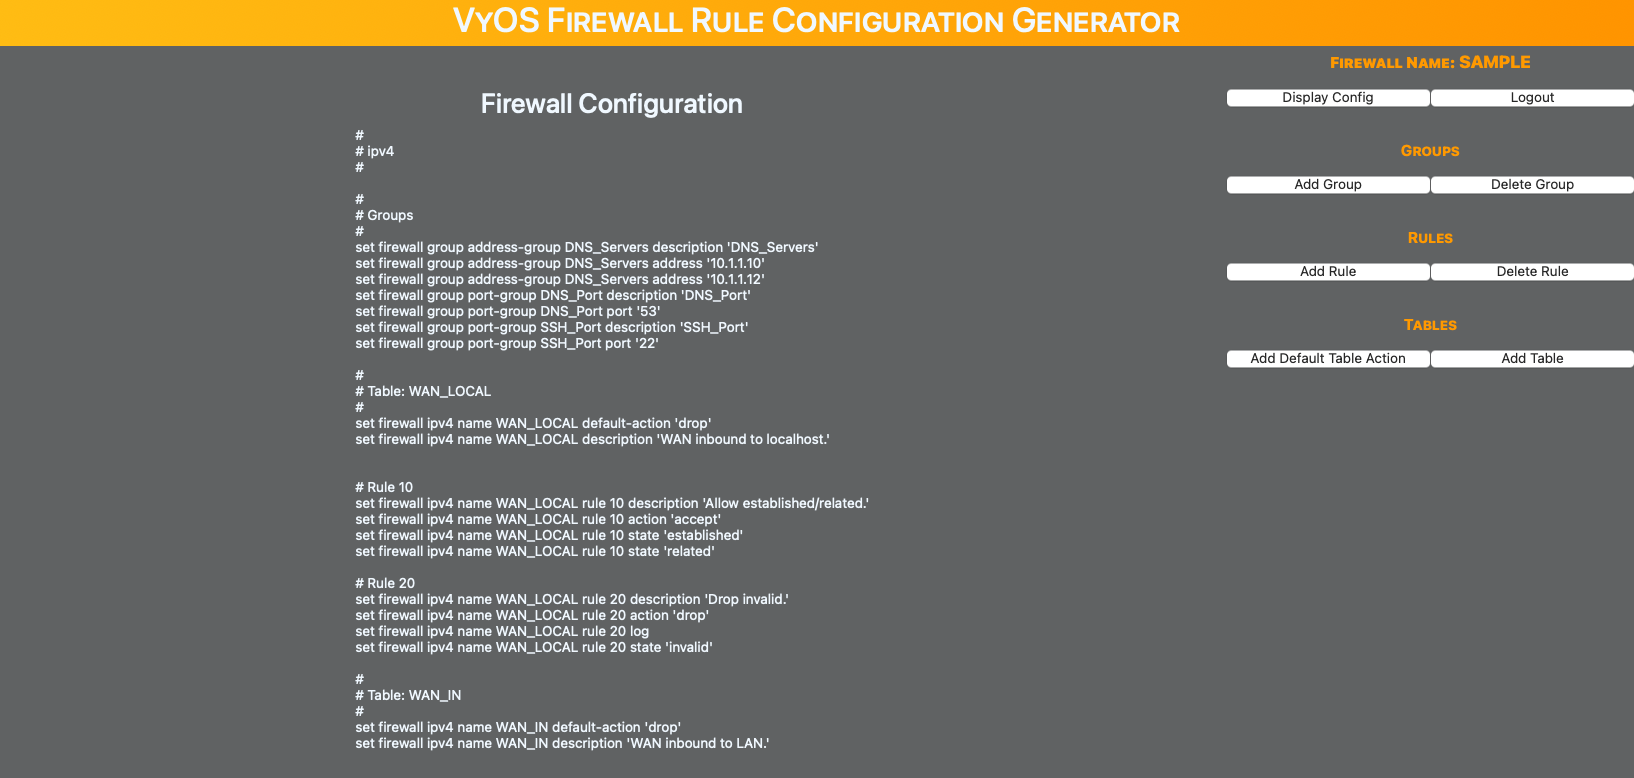
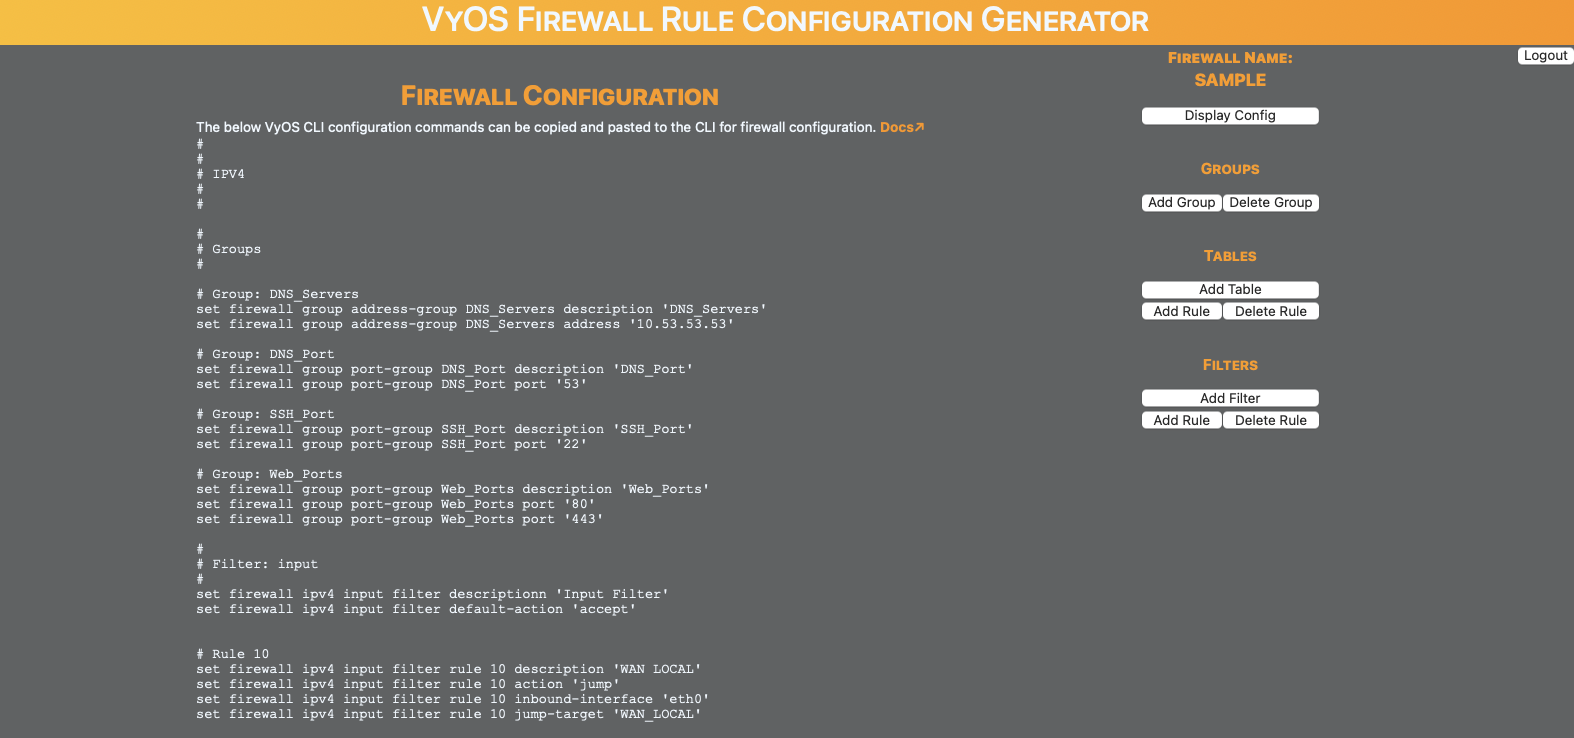
Update README.md and images.

diff --git a/README.md b/README.md
@@ -17,19 +17,59 @@ Working demo:  [https://vyos-fw-gui.com](https://vyos-fw-gui.com)
 
 ```text
 #
-# ipv4
+#
+# IPV4
+#
 #
 
 #
 # Groups
 #
+
+# Group: DNS_Servers
 set firewall group address-group DNS_Servers description 'DNS_Servers'
-set firewall group address-group DNS_Servers address '10.1.1.10'
-set firewall group address-group DNS_Servers address '10.1.1.12'
+set firewall group address-group DNS_Servers address '10.53.53.53'
+
+# Group: DNS_Port
 set firewall group port-group DNS_Port description 'DNS_Port'
 set firewall group port-group DNS_Port port '53'
+
+# Group: SSH_Port
 set firewall group port-group SSH_Port description 'SSH_Port'
 set firewall group port-group SSH_Port port '22'
+
+# Group: Web_Ports
+set firewall group port-group Web_Ports description 'Web_Ports'
+set firewall group port-group Web_Ports port '80'
+set firewall group port-group Web_Ports port '443'
+
+#
+# Filter: input
+#
+set firewall ipv4 input filter descriptionn 'Input Filter'
+set firewall ipv4 input filter default-action 'accept'
+
+
+# Rule 10
+set firewall ipv4 input filter rule 10 description 'WAN LOCAL'
+set firewall ipv4 input filter rule 10 action 'jump'
+set firewall ipv4 input filter rule 10 inbound-interface 'eth0'
+set firewall ipv4 input filter rule 10 jump-target 'WAN_LOCAL'
+
+
+#
+# Filter: forward
+#
+set firewall ipv4 forward filter descriptionn 'Forward Filter'
+set firewall ipv4 forward filter default-action 'accept'
+
+
+# Rule 10
+set firewall ipv4 forward filter rule 10 description 'WAN IN'
+set firewall ipv4 forward filter rule 10 action 'jump'
+set firewall ipv4 forward filter rule 10 inbound-interface 'eth0'
+set firewall ipv4 forward filter rule 10 jump-target 'WAN_IN'
+
 
 #
 # Table: WAN_LOCAL
@@ -70,18 +110,59 @@ set firewall ipv4 name WAN_IN rule 20 log
 set firewall ipv4 name WAN_IN rule 20 state 'invalid'
 
 #
-# ipv6
+#
+# IPV6
+#
 #
 
 #
 # Groups
 #
+
+# Group: DNS_Servers
 set firewall group ipv6-address-group DNS_Servers description 'DNS_Servers'
 set firewall group ipv6-address-group DNS_Servers address 'fc00::53'
+
+# Group: DNS_Port
 set firewall group ipv6-port-group DNS_Port description 'DNS_Port'
 set firewall group ipv6-port-group DNS_Port port '53'
+
+# Group: SSH_Port
 set firewall group ipv6-port-group SSH_Port description 'SSH_Port'
 set firewall group ipv6-port-group SSH_Port port '22'
+
+# Group: Web_Ports
+set firewall group ipv6-port-group Web_Ports description 'Web_Ports'
+set firewall group ipv6-port-group Web_Ports port '80'
+set firewall group ipv6-port-group Web_Ports port '443'
+
+#
+# Filter: input
+#
+set firewall ipv6 input filter descriptionn 'Input Filter'
+set firewall ipv6 input filter default-action 'accept'
+
+
+# Rule 10
+set firewall ipv6 input filter rule 10 description 'WAN LOCAL'
+set firewall ipv6 input filter rule 10 action 'jump'
+set firewall ipv6 input filter rule 10 inbound-interface 'eth0'
+set firewall ipv6 input filter rule 10 jump-target 'WAN_LOCAL'
+
+
+#
+# Filter: forward
+#
+set firewall ipv6 forward filter descriptionn 'Forward Filter'
+set firewall ipv6 forward filter default-action 'accept'
+
+
+# Rule 10
+set firewall ipv6 forward filter rule 10 description 'WAN IN'
+set firewall ipv6 forward filter rule 10 action 'jump'
+set firewall ipv6 forward filter rule 10 inbound-interface 'eth0'
+set firewall ipv6 forward filter rule 10 jump-target 'WAN_IN'
+
 
 #
 # Table: WAN_LOCAL
